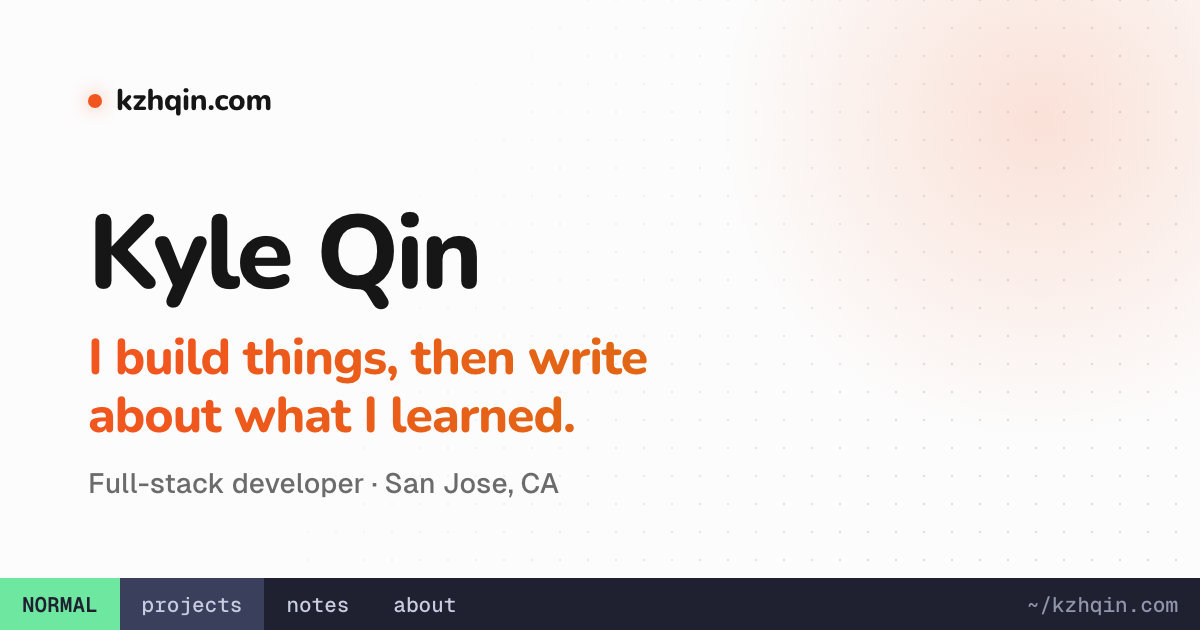
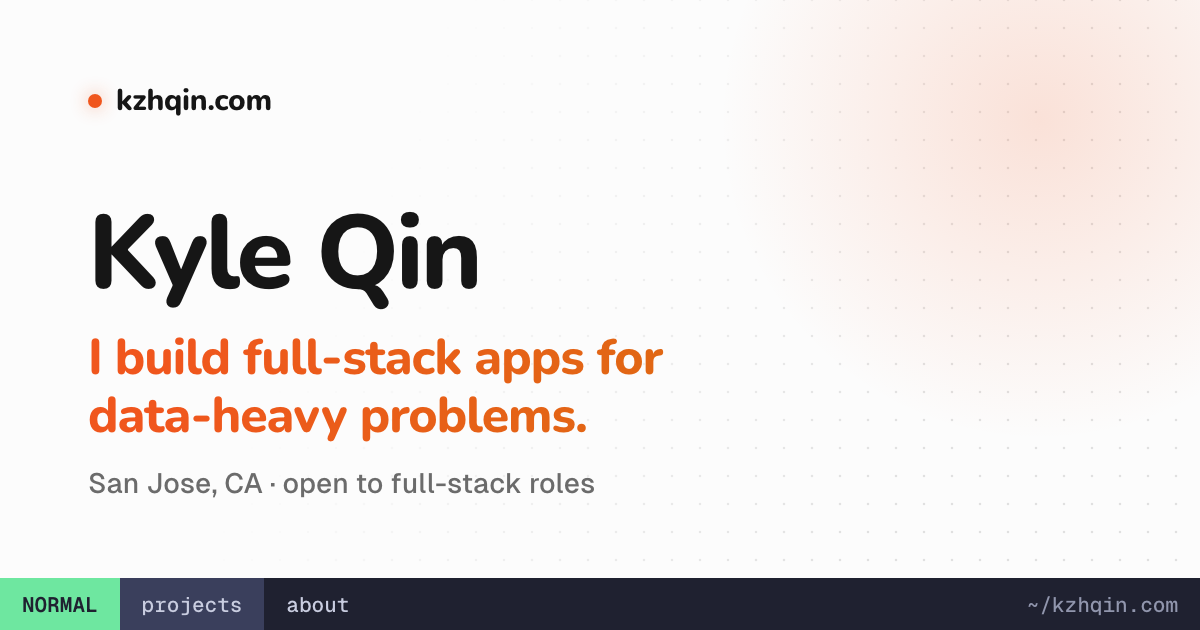
Clarify: new headline ("I build full-stack apps for data-heavy problems.") on the page, og card, and meta; CNPS and UTR spelled out; section links say where they go; finder placeholder "find anything…"

diff --git a/scripts/og/card.html b/scripts/og/card.html
@@ -47,9 +47,9 @@
   <main>
     <div class="brand"><i></i>kzhqin.com</div>
     <h1>Kyle Qin</h1>
-    <div class="grad">I build things, then write about what I learned.</div>
-    <div class="sub">Full-stack developer · San Jose, CA</div>
+    <div class="grad">I build full-stack apps for data-heavy problems.</div>
+    <div class="sub">San Jose, CA · open to full-stack roles</div>
   </main>
-  <div class="bar"><b>NORMAL</b><span class="tab">projects</span><span>notes</span><span>about</span><span class="right">~/kzhqin.com</span></div>
+  <div class="bar"><b>NORMAL</b><span class="tab">projects</span><span>about</span><span class="right">~/kzhqin.com</span></div>
 </body>
 </html>

diff --git a/src/lib/search.ts b/src/lib/search.ts
@@ -17,7 +17,7 @@ export interface SearchEntry {
 }
 
 const PAGES: SearchEntry[] = [
-  { kind: "page", name: "home", text: "The front page: intro, projects, latest notes.", href: "/" },
+  { kind: "page", name: "home", text: "The front page: intro, projects, and stack.", href: "/" },
   { kind: "page", name: "projects", text: "Everything I have built, newest first.", href: "/projects" },
   { kind: "page", name: "notes", text: "Findings, workflows, and things I want to remember.", href: "/notes" },
   { kind: "page", name: "about", text: "Who I am, what I do, and where I have worked.", href: "/about" },

diff --git a/tests/e2e/site.spec.ts b/tests/e2e/site.spec.ts
@@ -28,7 +28,7 @@ test.describe("pages", () => {
 
   test("home shows hero, projects, notes, and about", async ({ page }) => {
     await page.goto("/");
-    await expect(page.getByRole("heading", { level: 1 })).toContainText("Hi, I'm Kyle. I build things");
+    await expect(page.getByRole("heading", { level: 1 })).toContainText("Hi, I'm Kyle. I build full-stack apps");
     await expect(page.locator(".rows .row")).toHaveCount(4);
     await expect(page.locator(".list .nrow")).toHaveCount(2);
     await expect(page.getByText("Read more about me")).toBeVisible();

diff --git a/src/content/projects/determination-drill.md b/src/content/projects/determination-drill.md
@@ -3,7 +3,7 @@ name: Determination Drill
 year: 2026
 period: Aug 2026–present
 tags: [javascript, node]
-summary: Sight-ID trainer for the CNPS Field Botanist exam. 500 plants from photos, scored the way the Board scores.
+summary: Sight-ID trainer for the California Native Plant Society's Field Botanist exam. 500 plants from photos, scored the way the exam is scored.
 repo: https://github.com/kylezehaoqin/cnps-drill
 featured: true
 order: 2

diff --git a/src/content/projects/utrtools.md b/src/content/projects/utrtools.md
@@ -3,7 +3,7 @@ name: UTRTools
 year: 2025
 period: Sep 2025–present
 tags: [python, rest apis]
-summary: Scouting for my tennis league team. Match history and UTR lookups for about 200 players across 10 teams.
+summary: Scouting for my tennis league team. Match history and UTR (Universal Tennis Rating) lookups for about 200 players across 10 teams.
 featured: true
 order: 2
 ---
